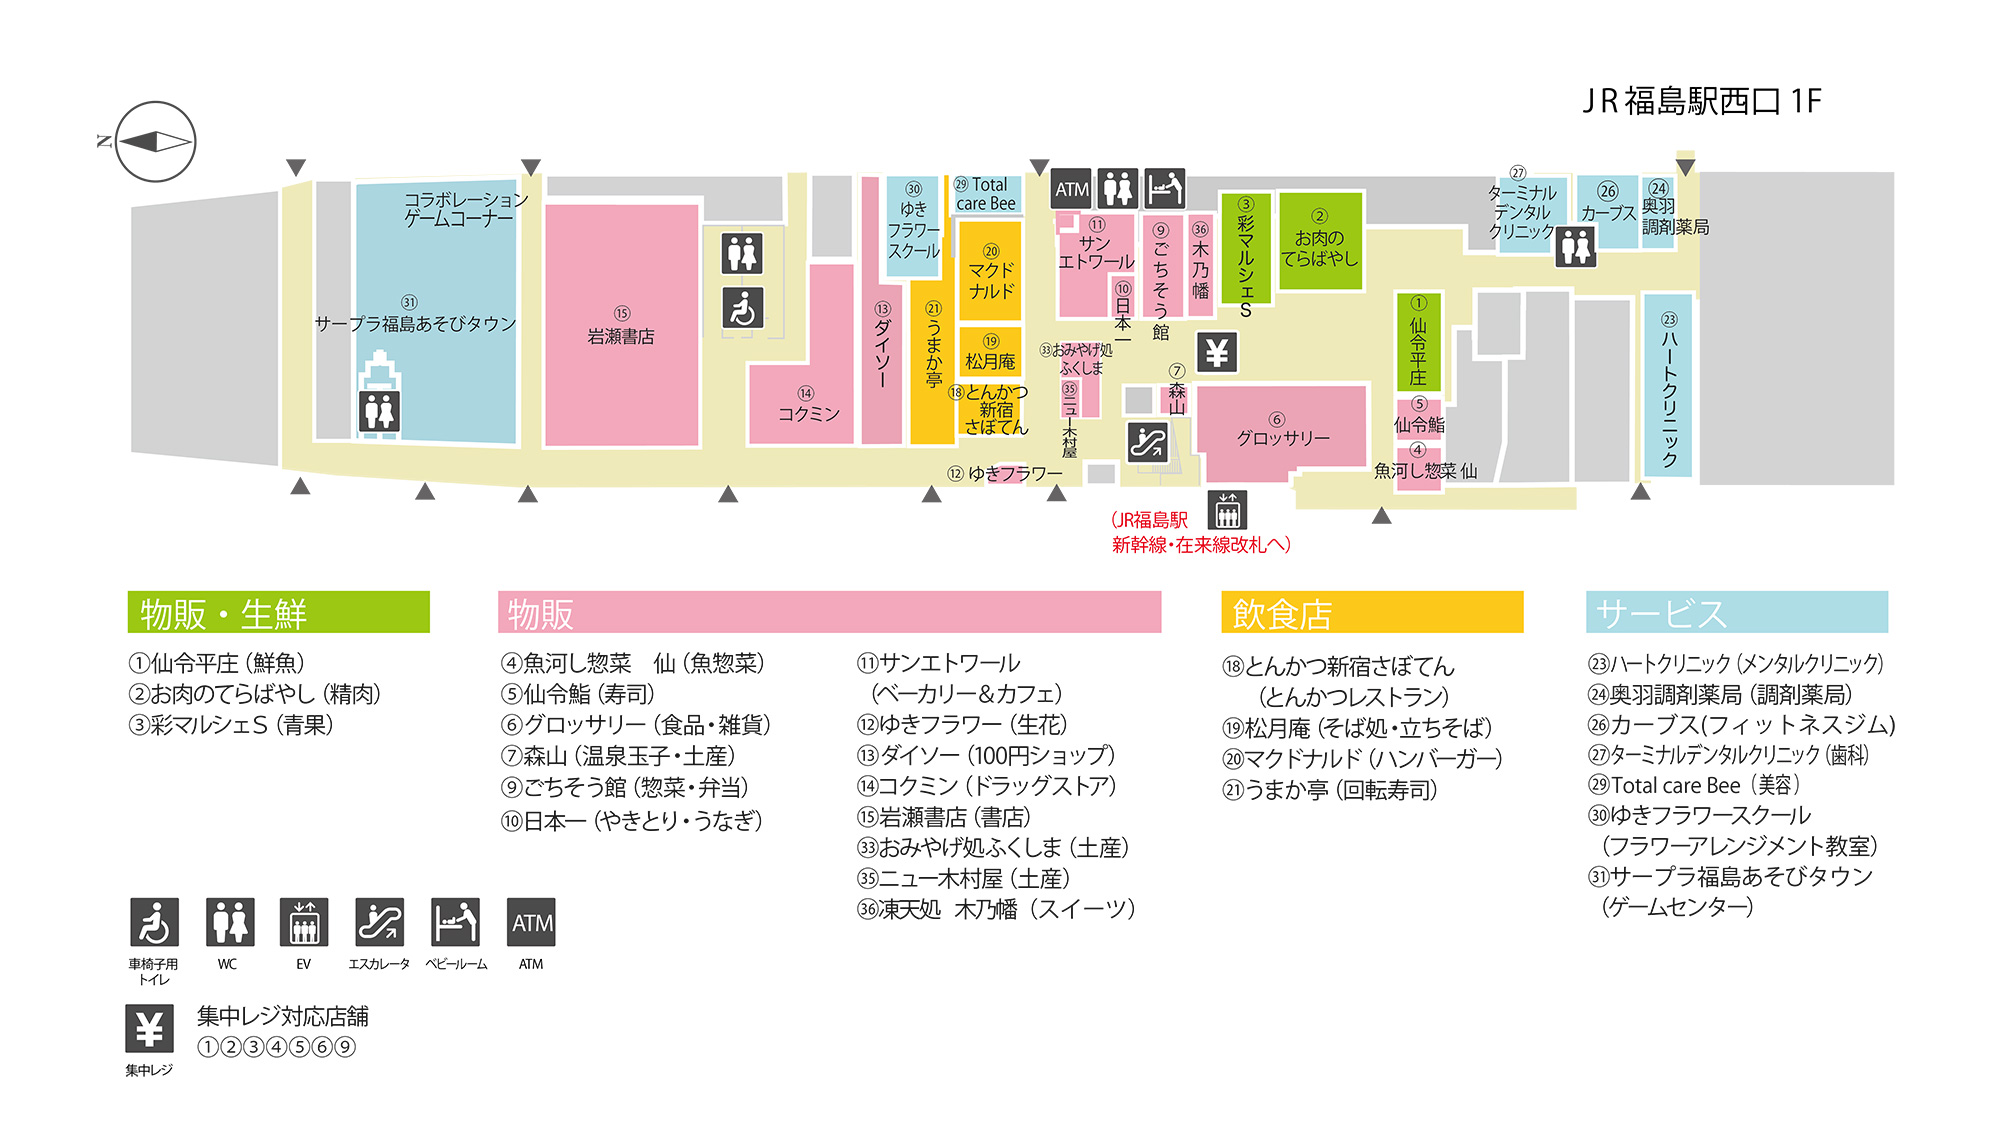
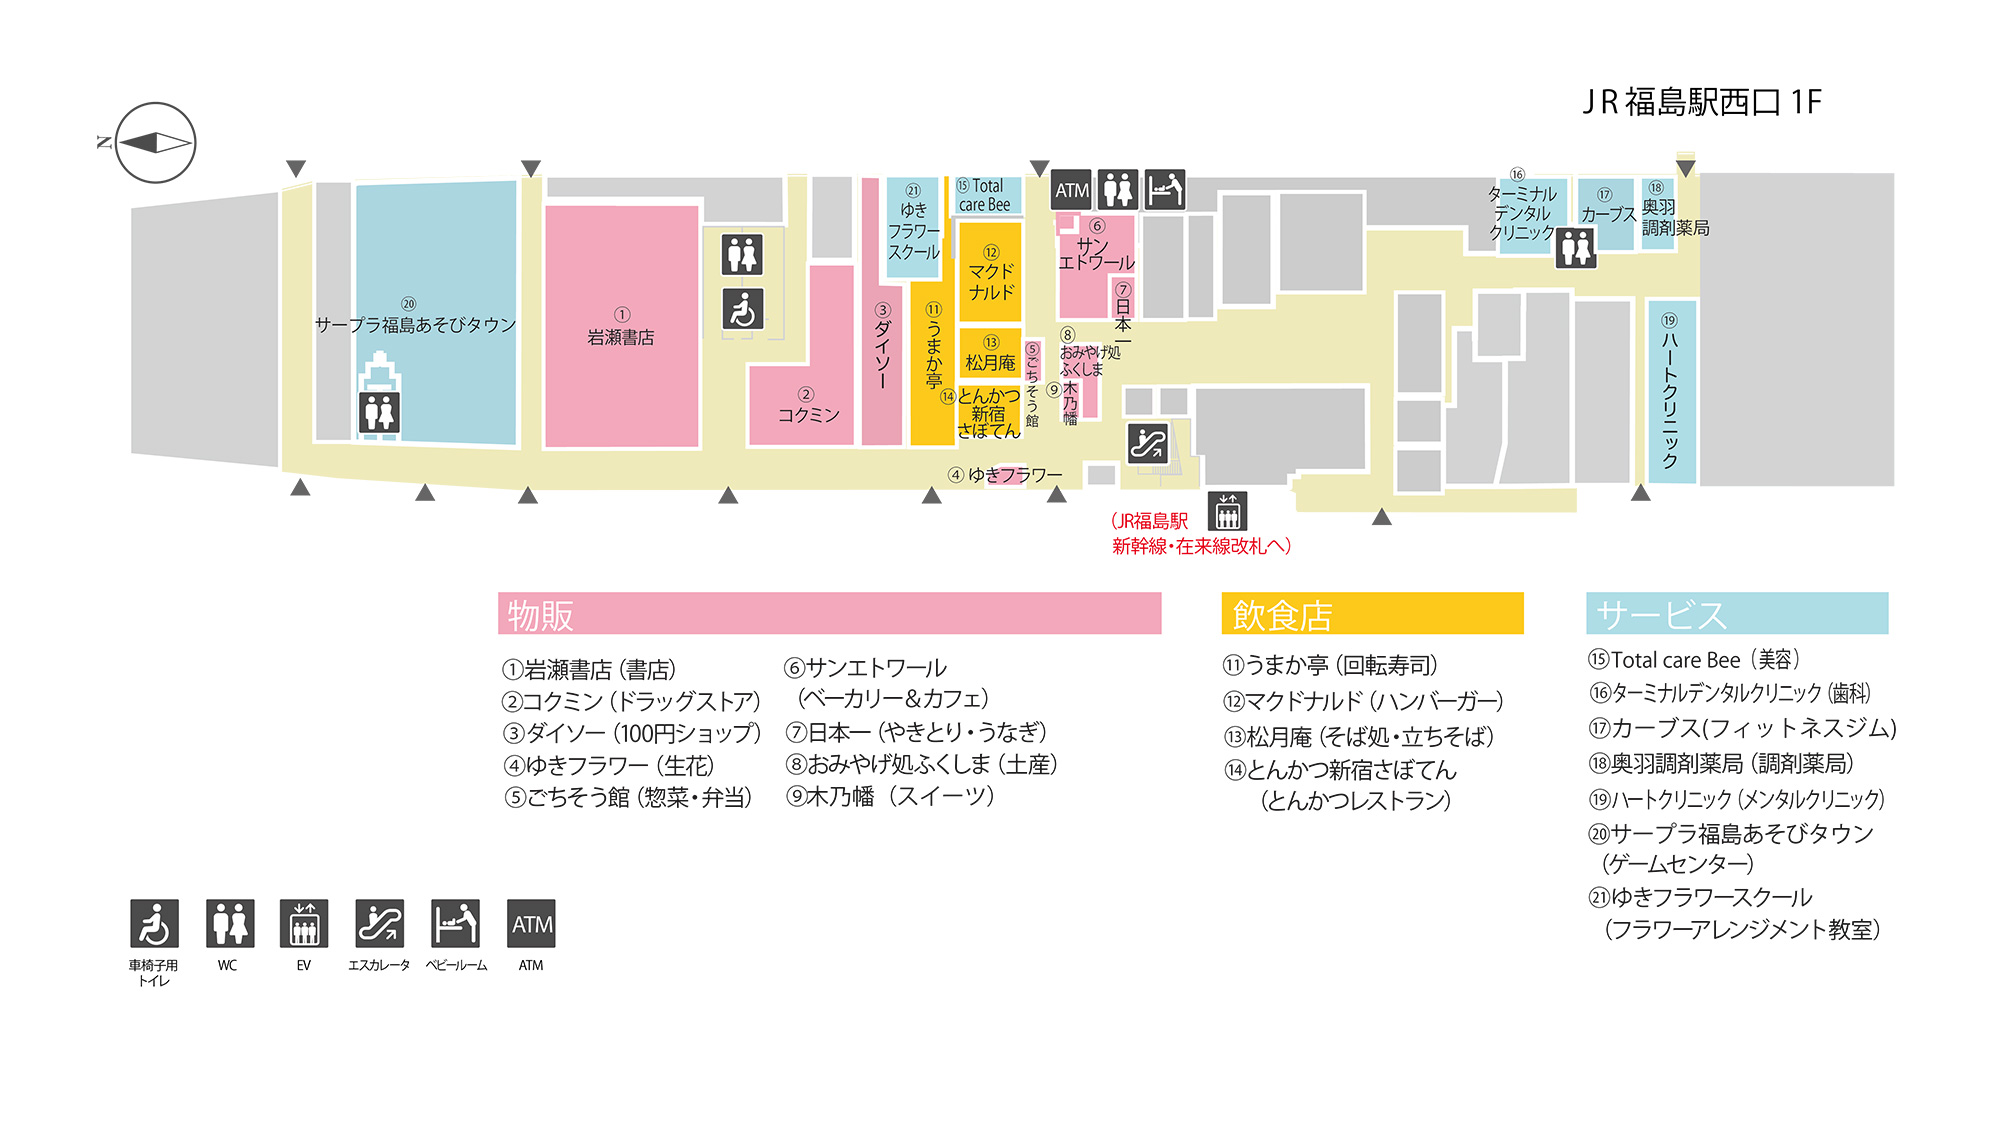
1/31公開：福島マップ、駐車場差替え

diff --git a/public/serviceinfo/assets/css/pivot/pivot.css b/public/serviceinfo/assets/css/pivot/pivot.css
@@ -951,7 +951,7 @@ section h2.tit{
 	width:143px;
 	height:210px;
 	position: absolute;
-	top:854px;
+	top:1350px;
 	left:-162px;
 	z-index:100;
 }

diff --git a/public/serviceinfo/assets/css/tekute/tekute.css b/public/serviceinfo/assets/css/tekute/tekute.css
@@ -1211,6 +1211,7 @@ section p.small {
 	float: left;
 }
 .park ul li:first-child{
+	width: 443px;
 	margin-right:62px;
 }
 

diff --git a/resources/views/pivot/fukushima.blade.php b/resources/views/pivot/fukushima.blade.php
@@ -110,7 +110,7 @@
 														<table>
 																<tr class="time">
 																		<th>営業時間</th>
-																		<td>10:00～20:00<br class="sp">（一部店舗を除く）</td>
+																		<td>各店舗の営業時間による</td>
 																</tr>
 																<tr>
 																		<th>休館日</th>